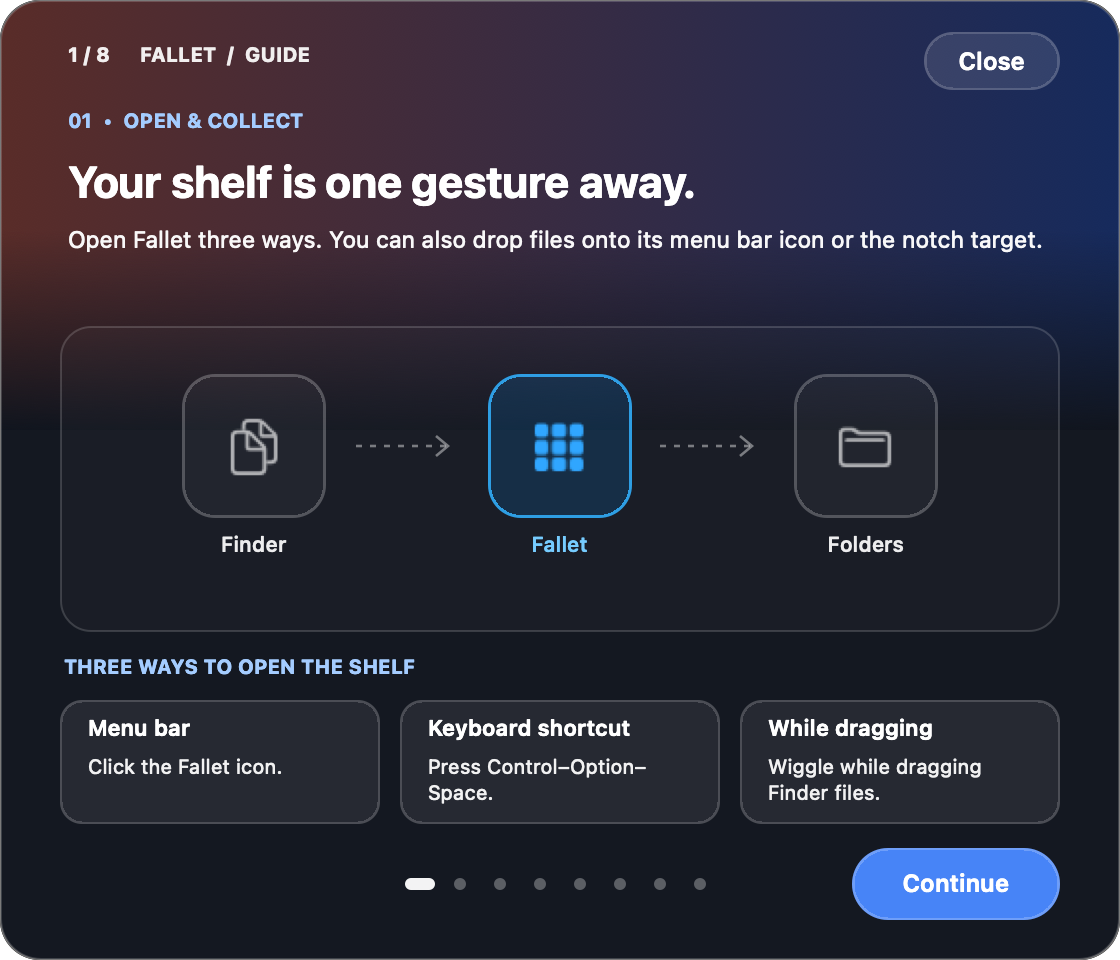
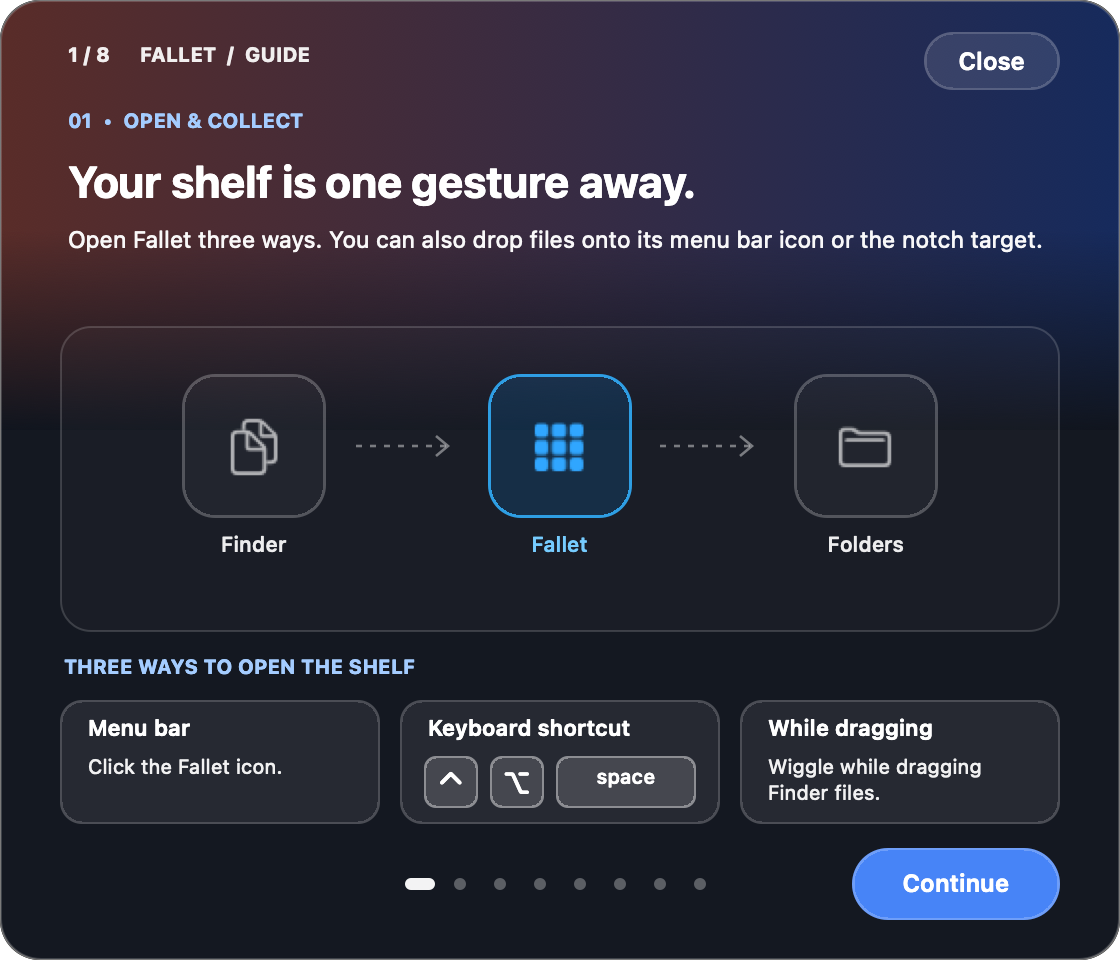
Show shortcut keycaps and remove item button rings

Changed region(s): [[0.375, 0.7812, 0.625, 0.8438]]

diff --git a/Sources/GuideWindow.swift b/Sources/GuideWindow.swift
@@ -346,7 +346,20 @@ final class GuideView: NSView {
         return view
     }
 
-    private func optionCard(title: String, detail: String, frame: NSRect) -> NSView {
+    private func shortcutKeycap(_ title: String, x: CGFloat, width: CGFloat) -> NSView {
+        let key = NSView(frame: NSRect(x: x, y: 8, width: width, height: 26))
+        key.wantsLayer = true
+        key.layer?.cornerRadius = 6
+        key.layer?.backgroundColor = NSColor(calibratedWhite: 1, alpha: 0.14).cgColor
+        key.layer?.borderWidth = 1
+        key.layer?.borderColor = NSColor(calibratedWhite: 1, alpha: 0.38).cgColor
+        key.addSubview(label(title, frame: NSRect(x: 0, y: 4, width: width, height: 18),
+                             size: title == "space" ? 10 : 15, weight: .medium, alignment: .center))
+        return key
+    }
+
+    private func optionCard(title: String, detail: String, frame: NSRect,
+                            keyboardShortcut: Bool = false) -> NSView {
         let card = NSView(frame: frame)
         card.wantsLayer = true
         card.layer?.cornerRadius = 11
@@ -355,9 +368,15 @@ final class GuideView: NSView {
         card.layer?.borderColor = NSColor(calibratedWhite: 1, alpha: 0.17).cgColor
         card.addSubview(label(title, frame: NSRect(x: 12, y: frame.height - 23, width: frame.width - 24, height: 16),
                               size: 11, weight: .semibold))
-        card.addSubview(label(detail, frame: NSRect(x: 12, y: 8, width: frame.width - 24,
-                                                    height: frame.height - 35),
-                              size: 10, color: NSColor(calibratedWhite: 1, alpha: 0.75)))
+        if keyboardShortcut {
+            card.addSubview(shortcutKeycap("⌃", x: 12, width: 27))
+            card.addSubview(shortcutKeycap("⌥", x: 45, width: 27))
+            card.addSubview(shortcutKeycap("space", x: 78, width: 70))
+        } else {
+            card.addSubview(label(detail, frame: NSRect(x: 12, y: 8, width: frame.width - 24,
+                                                        height: frame.height - 35),
+                                  size: 10, color: NSColor(calibratedWhite: 1, alpha: 0.75)))
+        }
         return card
     }
 
@@ -401,7 +420,8 @@ final class GuideView: NSView {
                 for index in 0..<3 {
                     addSubview(optionCard(title: titles[index], detail: details[index],
                                           frame: NSRect(x: 30 + CGFloat(index) * 170, y: 68,
-                                                        width: 160, height: 62)))
+                                                        width: 160, height: 62),
+                                          keyboardShortcut: index == 1))
                 }
             } else {
                 addSubview(optionCard(title: page.firstOptionTitle ?? "Option 1", detail: page.firstStep,

diff --git a/Sources/Fallet.swift b/Sources/Fallet.swift
@@ -238,6 +238,17 @@ final class FileRowView: DragFilesView {
         cache.countLimit = 128
         return cache
     }()
+    private static let moreIcon: NSImage = {
+        let image = NSImage(size: NSSize(width: 14, height: 17), flipped: false) { _ in
+            NSColor.black.setFill()
+            for y in [CGFloat(1.4), 6.8, 12.2] {
+                NSBezierPath(ovalIn: NSRect(x: 5.3, y: y, width: 3.4, height: 3.4)).fill()
+            }
+            return true
+        }
+        image.isTemplate = true
+        return image
+    }()
     private let entry: ShelfEntry
     private let removeAction: (UUID) -> Void
     private var isRemoving = false
@@ -266,10 +277,12 @@ final class FileRowView: DragFilesView {
                               : NSColor.systemOrange.withAlphaComponent(0.55)).cgColor
         layer?.backgroundColor = ShelfGlassStyle.rowFill.cgColor
 
-        let more = GlassPillButton(frame: NSRect(x: 6, y: 12, width: 23, height: 27),
-                                   title: "⋮", symbol: "")
-        more.font = .systemFont(ofSize: 17, weight: .bold)
-        more.imagePosition = .noImage
+        let more = NSButton(frame: NSRect(x: 4, y: 12, width: 27, height: 27))
+        more.isBordered = false
+        more.focusRingType = .none
+        more.image = Self.moreIcon
+        more.imagePosition = .imageOnly
+        more.contentTintColor = ShelfGlassStyle.primaryText
         more.toolTip = "More actions for this item"
         more.setAccessibilityLabel("More actions for \(entry.title)")
         more.target = self

diff --git a/Tests/ClipboardDragTests.swift b/Tests/ClipboardDragTests.swift
@@ -49,9 +49,11 @@ struct ClipboardDragTests {
             && $0.subviews.contains(where: { ($0 as? NSImageView)?.image != nil }) }) else {
             fatalError("Image files added from Finder should show their own thumbnail")
         }
-        guard let menuButton = imageRow.subviews.compactMap({ $0 as? GlassPillButton }).first(where: {
+        guard let menuButton = imageRow.subviews.compactMap({ $0 as? NSButton }).first(where: {
             $0.accessibilityLabel()?.contains("More actions") == true
-        }), imageRow.hitTest(NSPoint(x: 17, y: 25)) === menuButton,
+        }), menuButton.frame.width == menuButton.frame.height,
+           !menuButton.isBordered, !menuButton.wantsLayer,
+           imageRow.hitTest(NSPoint(x: 17, y: 25)) === menuButton,
            imageRow.hitTest(NSPoint(x: 55, y: 25)) === imageRow,
            imageRow.menu == nil else {
             fatalError("The item menu button must remain separate from the draggable thumbnail")
